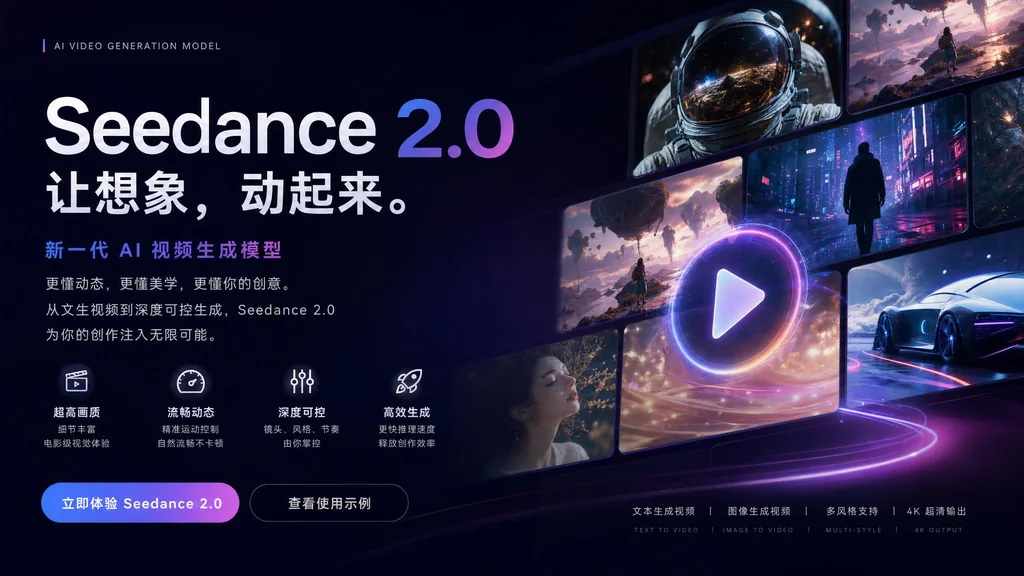
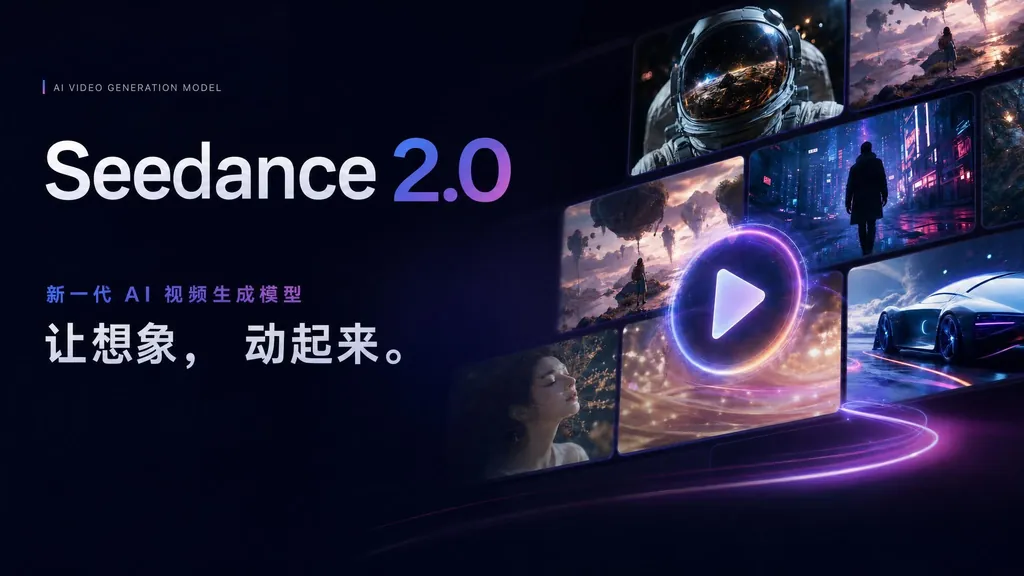
fix: hooks ordering, promo image, transaction query
- ShotCard/MediaUploadCard: move all hooks before viewport
  early-return to fix React Error #310
- Update promo modal background image, compress to 46KB WebP
- AccountModal: add user_id filter to transactions and orders
  queries (was returning empty due to missing filter / RLS)
- Add error logging for query debugging

diff --git a/app/canvas/ShotCard.tsx b/app/canvas/ShotCard.tsx
@@ -69,16 +69,6 @@ export class ShotCardShapeUtil extends BaseBoxShapeUtil<ShotCardShape> {
     const { w, h, shotType, cameraMovement, directorThinking, composition, subjectScale, spaceType, timeFeeling, lighting, motionSource, semantic, isMinimized } = shape.props;
     const editor = useEditor();
 
-    const isInViewport = useValue('inViewport', () => {
-      const vp = editor.getViewportPageBounds();
-      const sb = editor.getShapePageBounds(shape.id);
-      if (!sb) return true;
-      return !(sb.maxX < vp.minX || sb.minX > vp.maxX || sb.maxY < vp.minY || sb.minY > vp.maxY);
-    }, [editor, shape.id]);
-    if (!isInViewport) {
-      return <HTMLContainer><div style={{ width: w, height: h, background: '#18181b', borderRadius: 12, border: '1px solid rgba(255,255,255,0.06)', display: 'flex', alignItems: 'center', justifyContent: 'center' }}><span style={{ color: 'rgba(255,255,255,0.2)', fontSize: 12 }}>镜头卡</span></div></HTMLContainer>;
-    }
-
     const [showCameraMovementPanel, setShowCameraMovementPanel] = useState(false);
     const [showDirectorThinkingPanel, setShowDirectorThinkingPanel] = useState(false);
     const [showDirectorThinkingSubPanel, setShowDirectorThinkingSubPanel] = useState(false);
@@ -92,6 +82,16 @@ export class ShotCardShapeUtil extends BaseBoxShapeUtil<ShotCardShape> {
     const [tempLighting, setTempLighting] = useState(lighting || '');
     const [tempMotionSource, setTempMotionSource] = useState(motionSource || '');
     const [tempSemantic, setTempSemantic] = useState(semantic || '');
+
+    const isInViewport = useValue('inViewport', () => {
+      const vp = editor.getViewportPageBounds();
+      const sb = editor.getShapePageBounds(shape.id);
+      if (!sb) return true;
+      return !(sb.maxX < vp.minX || sb.minX > vp.maxX || sb.maxY < vp.minY || sb.minY > vp.maxY);
+    }, [editor, shape.id]);
+    if (!isInViewport) {
+      return <HTMLContainer><div style={{ width: w, height: h, background: '#18181b', borderRadius: 12, border: '1px solid rgba(255,255,255,0.06)', display: 'flex', alignItems: 'center', justifyContent: 'center' }}><span style={{ color: 'rgba(255,255,255,0.2)', fontSize: 12 }}>镜头卡</span></div></HTMLContainer>;
+    }
 
     // 切换缩放
     const toggleMinimize = (e: React.MouseEvent) => {

diff --git a/app/canvas/AccountModal.tsx b/app/canvas/AccountModal.tsx
@@ -88,11 +88,13 @@ export default function AccountModal({ onClose, onPay, balance, isMember, member
       const supabase = createClient();
       const { data: { session } } = await supabase.auth.getSession();
       if (!session) return;
-      const { data } = await supabase
+      const { data, error } = await supabase
         .from('transactions')
         .select('id, type, amount, balance_after, created_at, metadata')
+        .eq('user_id', session.user.id)
         .order('created_at', { ascending: false })
         .limit(50);
+      if (error) console.error('transactions query error:', error);
       setTransactions(data ?? []);
     } finally {
       setTxLoading(false);
@@ -105,11 +107,13 @@ export default function AccountModal({ onClose, onPay, balance, isMember, member
       const supabase = createClient();
       const { data: { session } } = await supabase.auth.getSession();
       if (!session) return;
-      const { data } = await supabase
+      const { data, error } = await supabase
         .from('payment_orders')
         .select('id, order_no, order_type, amount_rmb, status, trade_no, paid_at, created_at')
+        .eq('user_id', session.user.id)
         .order('created_at', { ascending: false })
         .limit(50);
+      if (error) console.error('orders query error:', error);
       setOrders(data ?? []);
     } finally {
       setOrdersLoading(false);

diff --git a/app/canvas/MediaUploadCard.tsx b/app/canvas/MediaUploadCard.tsx
@@ -56,6 +56,8 @@ export class MediaUploadCardUtil extends BaseBoxShapeUtil<MediaUploadCardShape> 
   component(shape: MediaUploadCardShape) {
     const { w, h, mediaType, imageData, videoUrl, videoName, isUploading } = shape.props;
     const editor = useEditor();
+    const imgInputRef = useRef<HTMLInputElement>(null);
+    const vidInputRef = useRef<HTMLInputElement>(null);
 
     const isInViewport = useValue('inViewport', () => {
       const vp = editor.getViewportPageBounds();
@@ -66,9 +68,6 @@ export class MediaUploadCardUtil extends BaseBoxShapeUtil<MediaUploadCardShape> 
     if (!isInViewport && !isUploading) {
       return <HTMLContainer><div style={{ width: w, height: h, background: '#18181b', borderRadius: 12, border: '1px solid rgba(255,255,255,0.06)', display: 'flex', alignItems: 'center', justifyContent: 'center' }}><span style={{ color: 'rgba(255,255,255,0.2)', fontSize: 12 }}>媒体</span></div></HTMLContainer>;
     }
-
-    const imgInputRef = useRef<HTMLInputElement>(null);
-    const vidInputRef = useRef<HTMLInputElement>(null);
 
     const up = (props: Partial<MediaUploadCardShape['props']>) =>
       editor.updateShape({ id: shape.id, type: 'media-upload-card' as any, props: { ...shape.props, ...props } });
